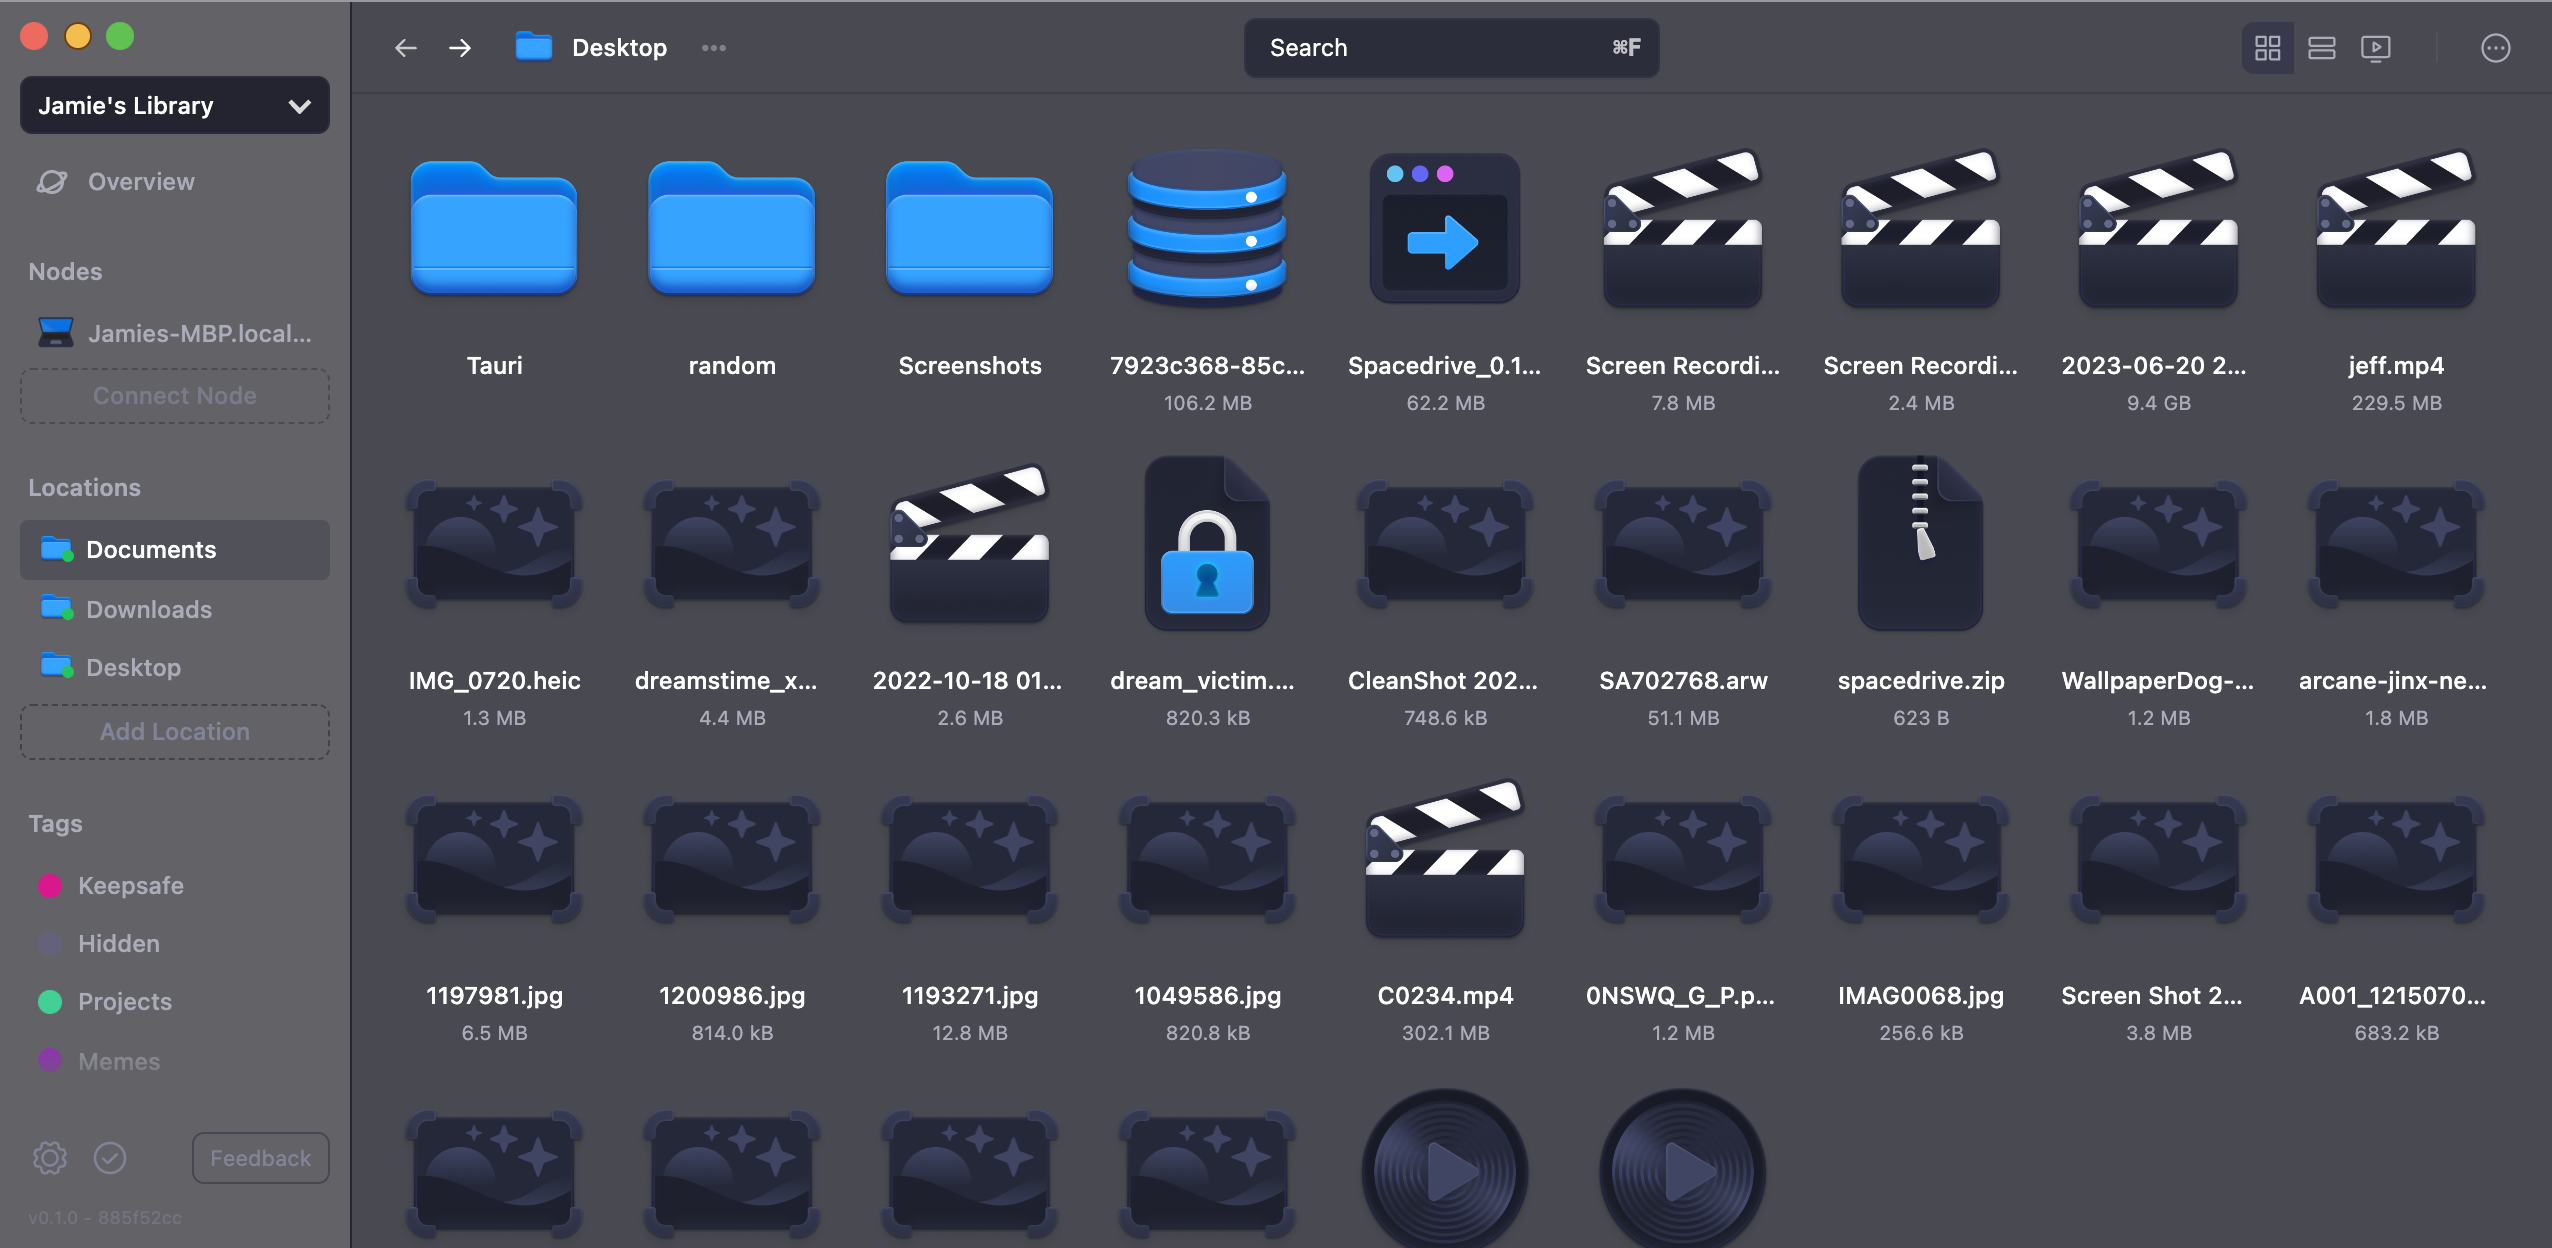
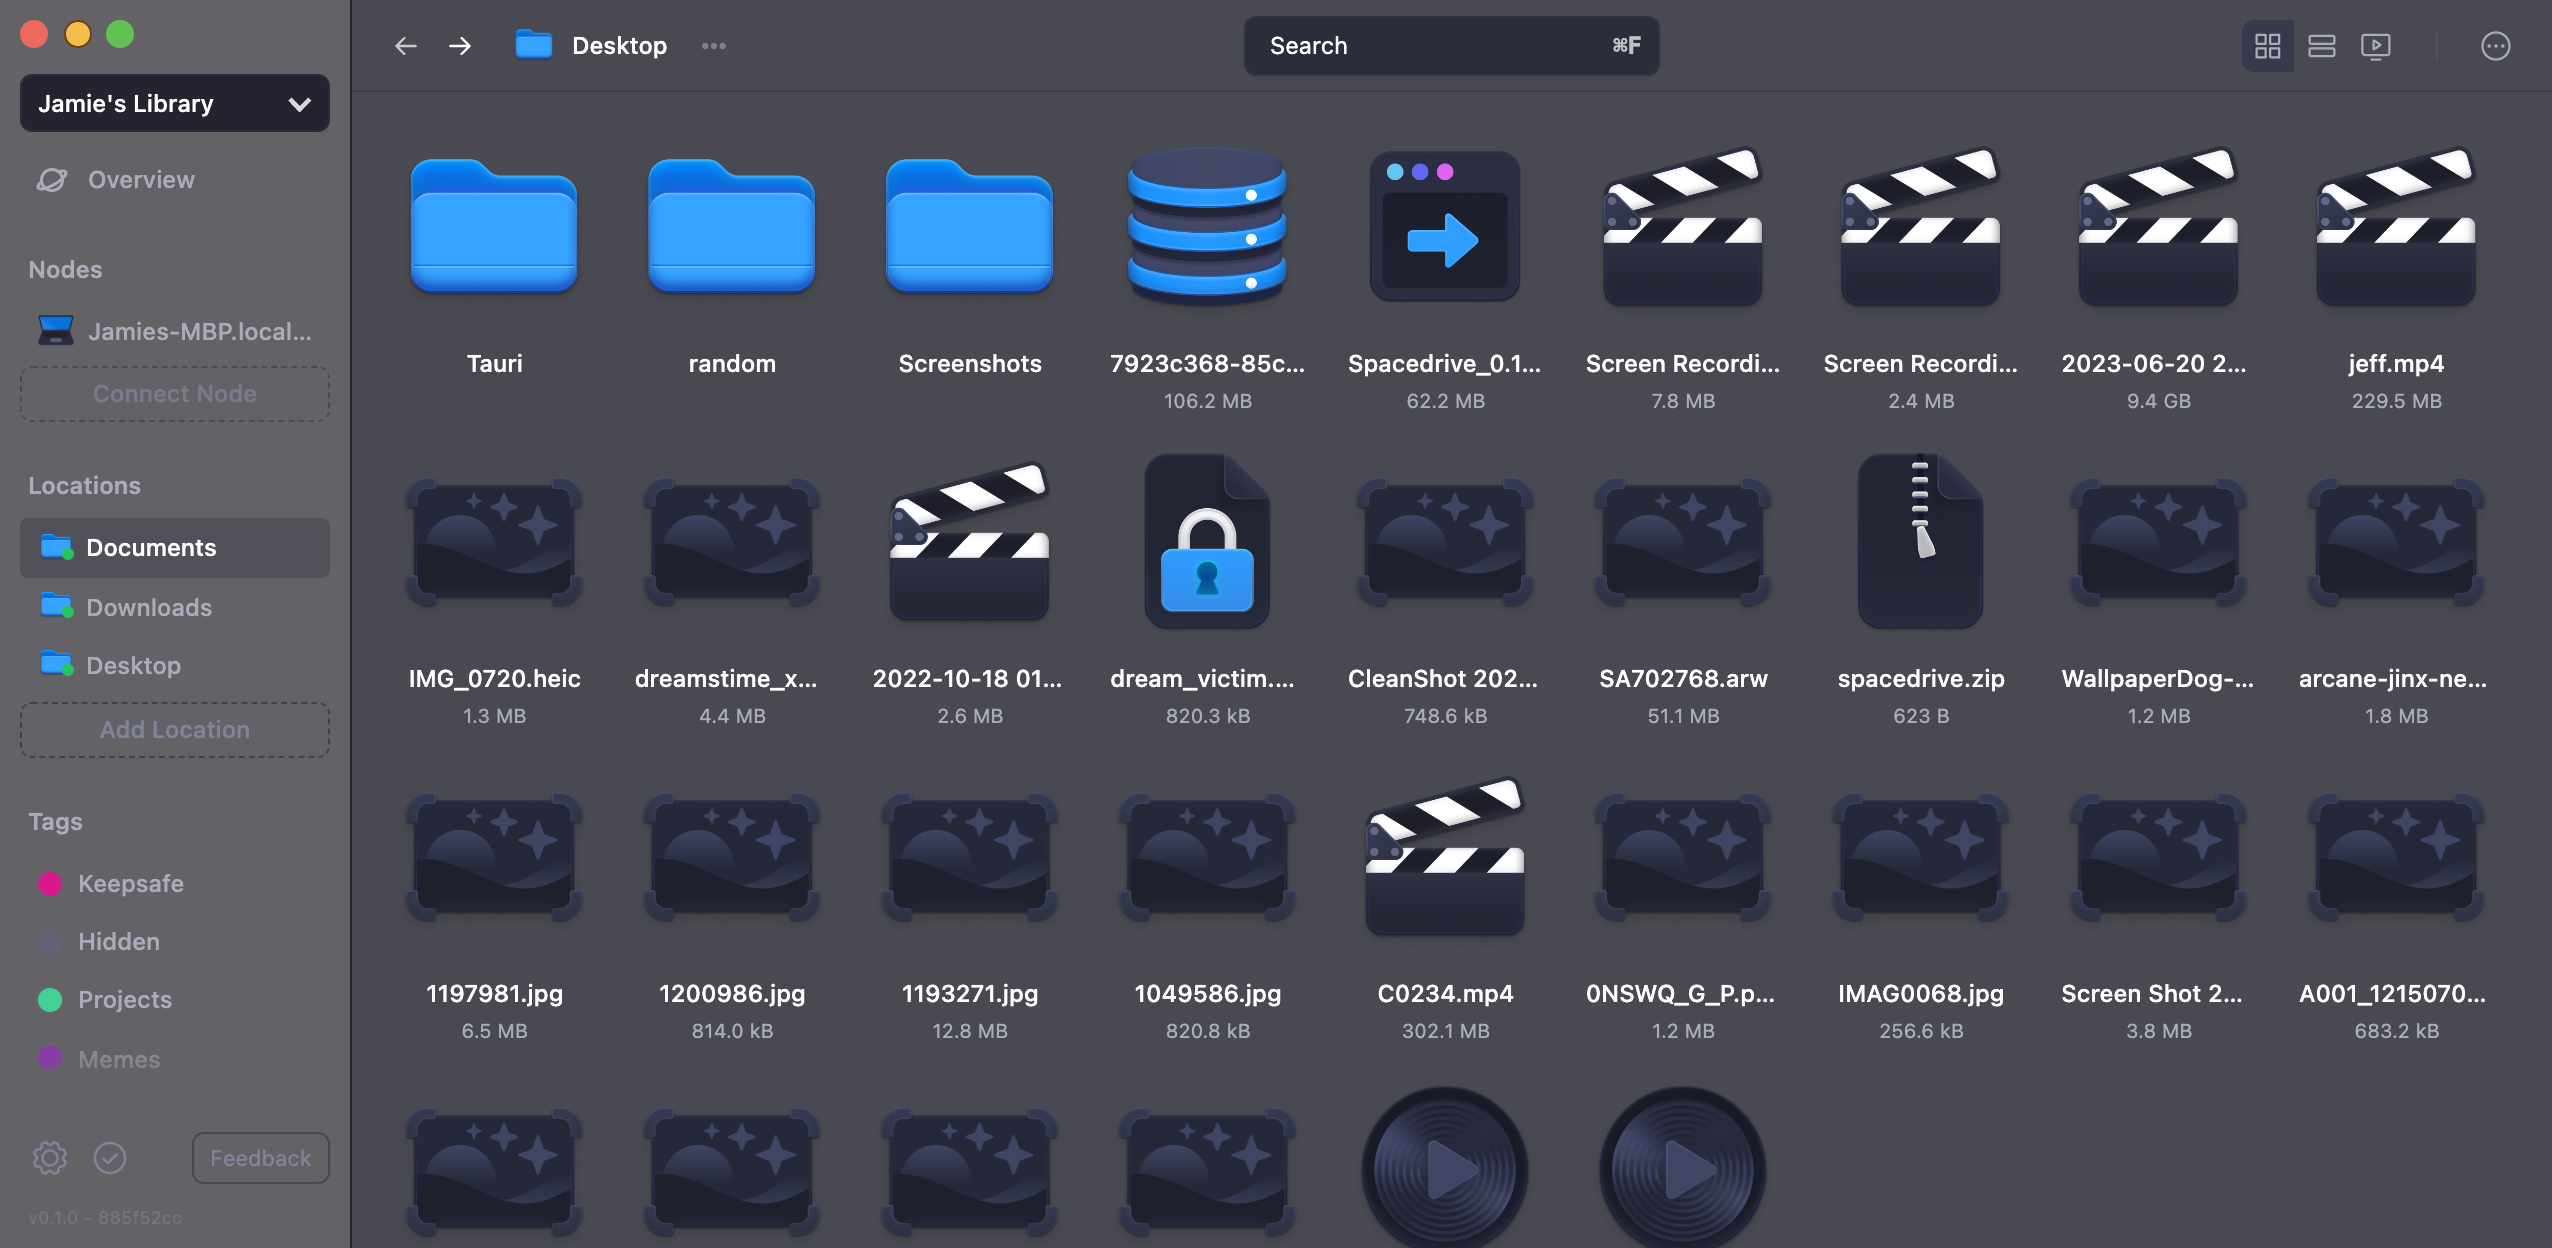
fix border

diff --git a/apps/landing/src/components/AppEmbed.tsx b/apps/landing/src/components/AppEmbed.tsx
@@ -64,7 +64,7 @@ const AppEmbed = () => {
 			{/* )} */}
 			<div className="z-30 mt-8 flex h-[255px] w-full px-6 sm:mt-20 sm:h-[428px] md:h-[428px] lg:h-[628px]">
 				<div className="relative m-auto flex h-full w-full max-w-7xl rounded-lg border border-black transition-opacity">
-					<div className="z-30 flex w-full rounded-lg bg-app/30 backdrop-blur">
+					<div className="z-30 flex w-full rounded-lg border-t border-app-line/50 bg-app/30 backdrop-blur">
 						<img className="rounded-lg" src="/images/test.png" />
 					</div>
 				</div>

diff --git a/interface/app/$libraryId/Layout/index.tsx b/interface/app/$libraryId/Layout/index.tsx
@@ -41,7 +41,7 @@ const Layout = () => {
 			className={clsx(
 				// App level styles
 				'flex h-screen cursor-default select-none overflow-hidden text-ink',
-				os === 'browser' && 'border-t border-app-line/50',
+				// os === 'browser' && 'border-t border-app-line/50',
 				// os === 'browser' && !transparentBg && 'bg-app',
 				os === 'macOS' && 'has-blur-effects rounded-[10px]',
 				os !== 'browser' && os !== 'windows' && 'border border-app-frame'
